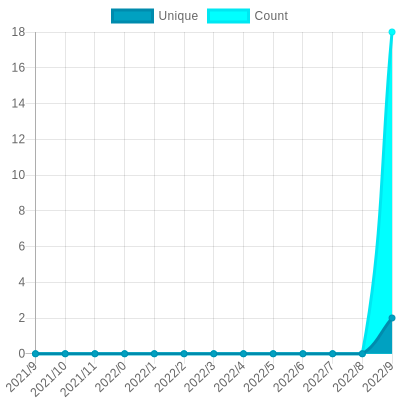
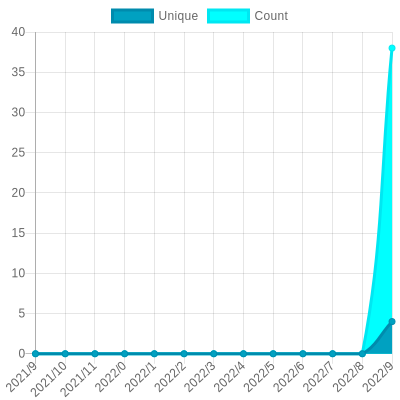
Update views

diff --git a/readme/418892131/year.md b/readme/418892131/year.md
@@ -23,10 +23,10 @@
 			<code>2021/10/1</code>
 		</td>
 		<td>
-			<code>2</code>
+			<code>4</code>
 		</td>
 		<td>
-			<code>18</code>
+			<code>38</code>
 		</td>
 	</tr>
 	<tr>
@@ -164,7 +164,7 @@
 </table>
 
 </details>
-<small><i>Last updated on 2021/10/26 12:05 PM UTC</i></small>
+<small><i>Last updated on 2021/10/26 6:02 PM UTC</i></small>
 
 ## ✂Copy and 📋 Paste
 ### SVG Badge

diff --git a/README.md b/README.md
@@ -53,7 +53,7 @@ The project created and maintained by [gayanvoice](https://github.com/gayanvoice
 	</tr>
 </table>
 
-<small><i>Last updated on 2021/10/26 12:05 PM UTC</i></small>
+<small><i>Last updated on 2021/10/26 6:02 PM UTC</i></small>
 
 ## ✂Copy and 📋 Paste
 ### Total Views Badge

diff --git a/readme/418885649/year.md b/readme/418885649/year.md
@@ -164,7 +164,7 @@
 </table>
 
 </details>
-<small><i>Last updated on 2021/10/26 12:05 PM UTC</i></small>
+<small><i>Last updated on 2021/10/26 6:02 PM UTC</i></small>
 
 ## ✂Copy and 📋 Paste
 ### SVG Badge
